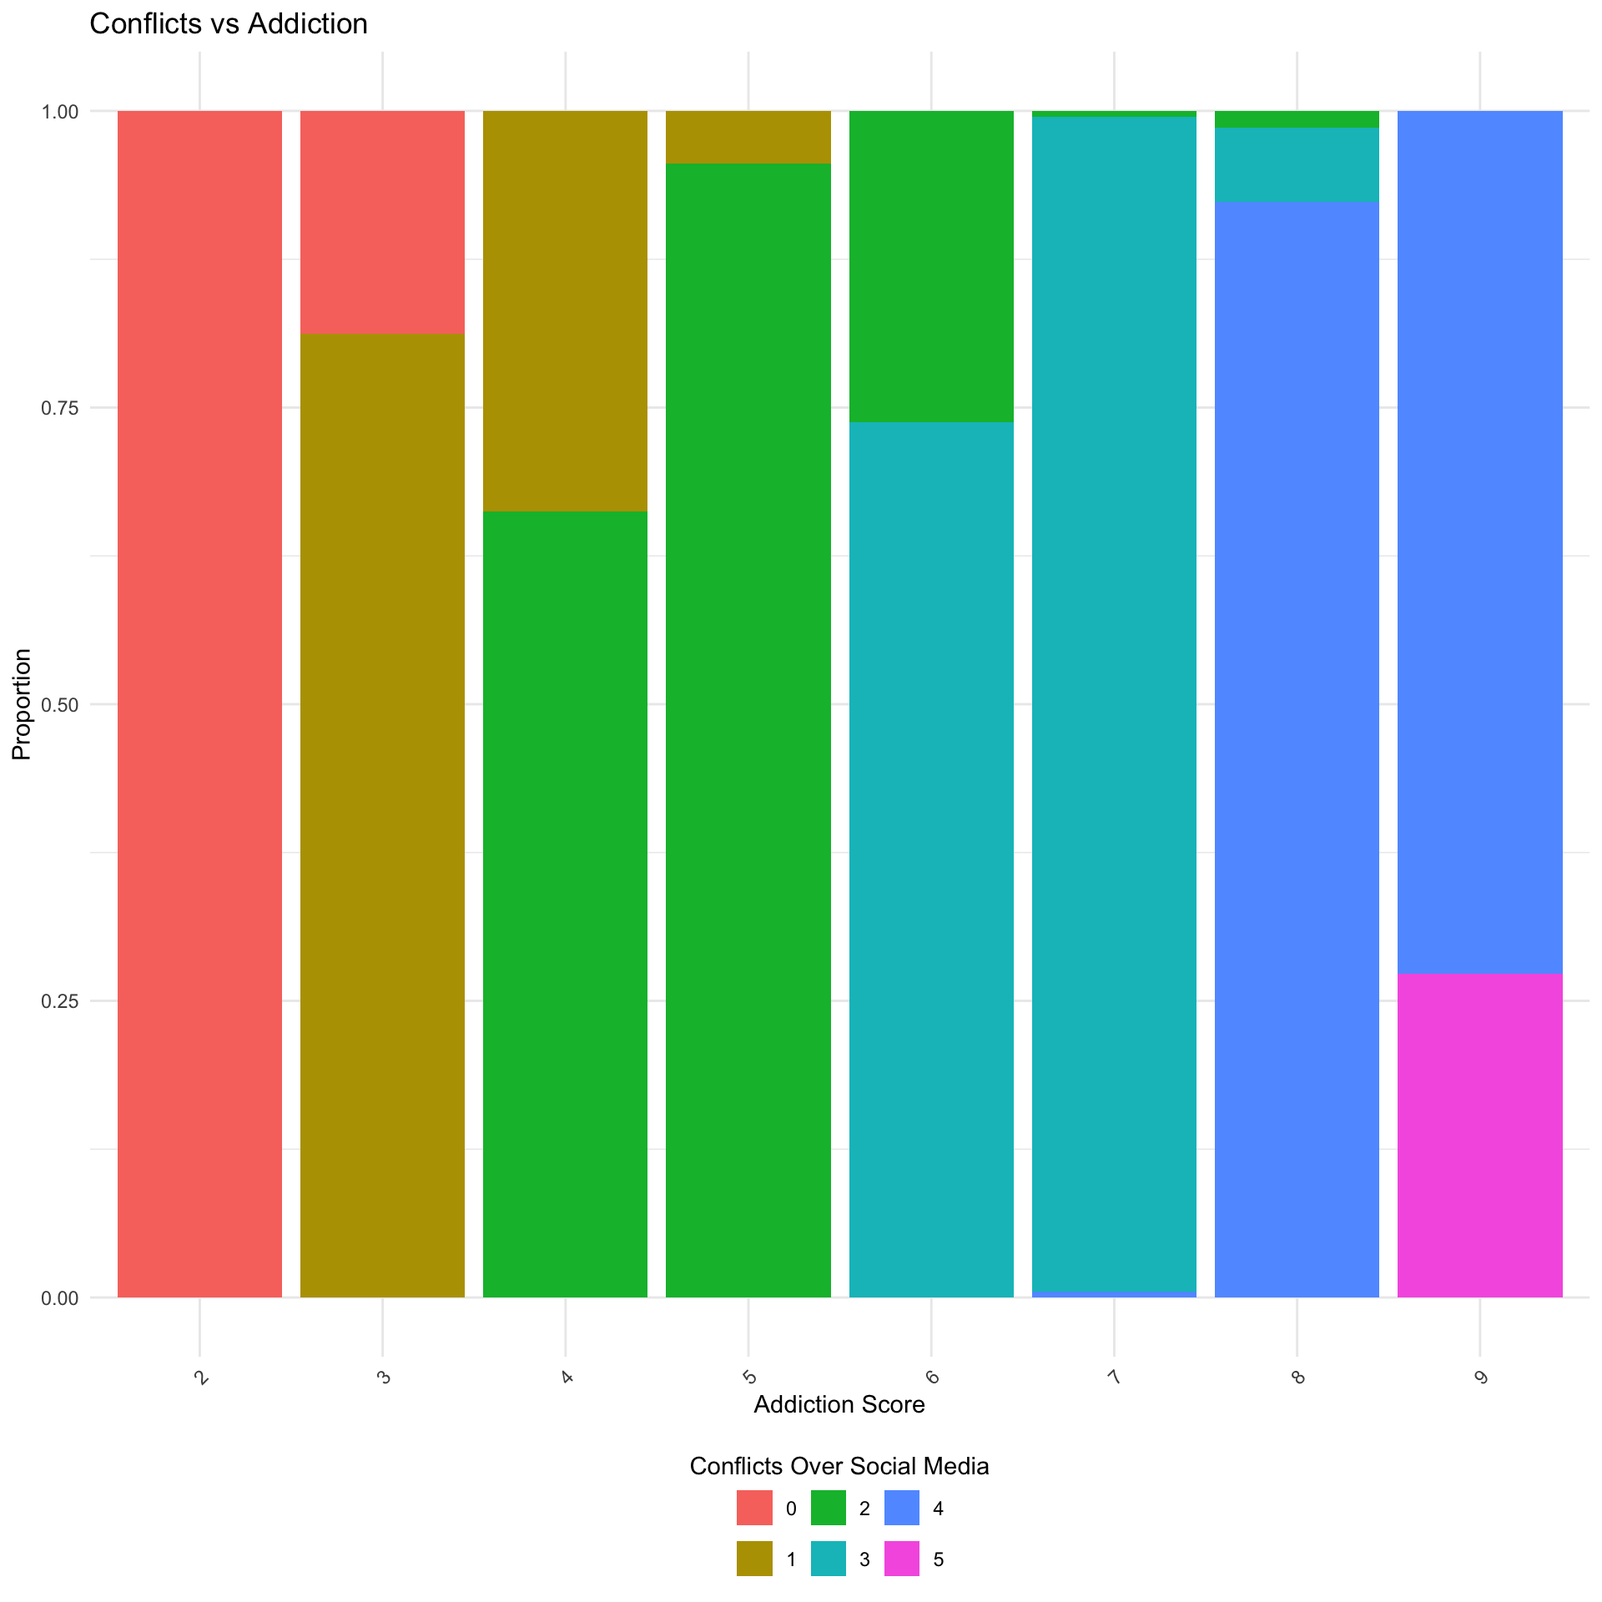
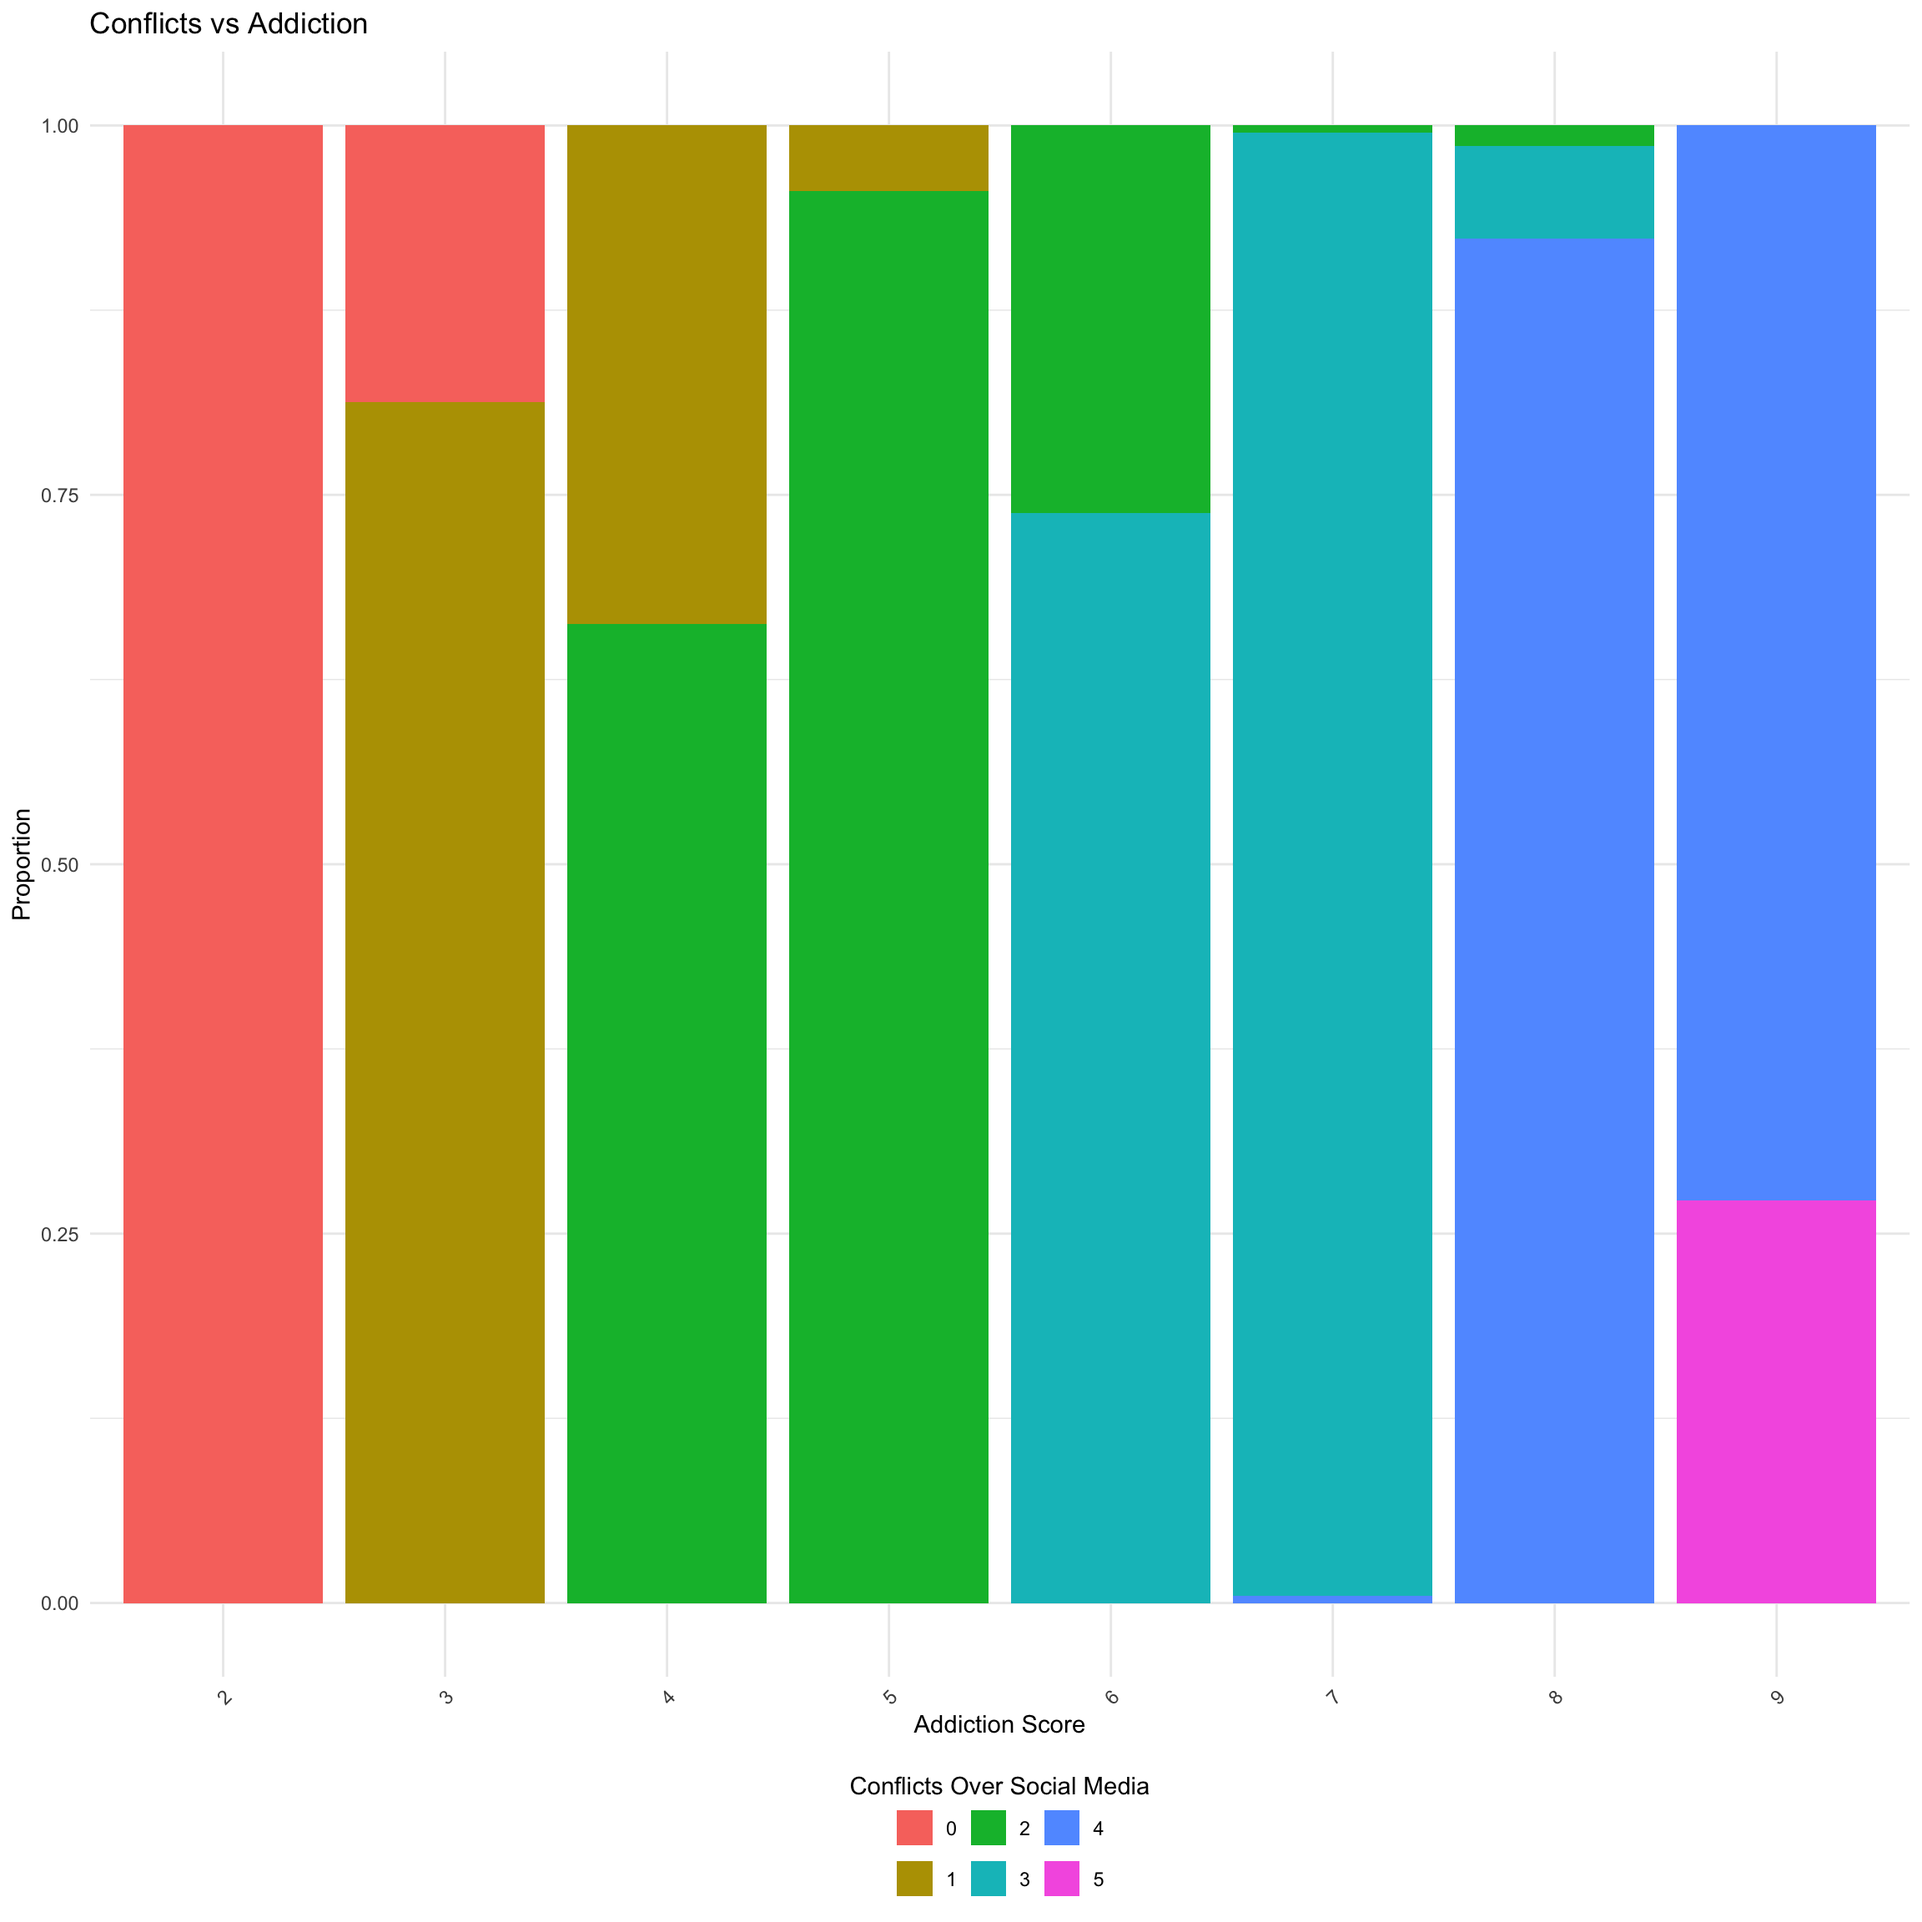
change the size of plot

diff --git a/assignment 3-presentation.html b/assignment 3-presentation.html
@@ -232,25 +232,25 @@ Figure&nbsp;1: Distribution of Addicted Scores
 <h2>Analysis Part</h2>
 <h3 id="how-does-social-media-affect-student">How does social media affect student</h3>
 <div class="columns">
-<div class="column" style="width:33%;">
+<div class="column" style="width:40%;">
 <div class="cell">
 <div class="cell-output-display">
 <div>
 <figure>
-<p><img data-src="assignment-3-presentation_files/figure-revealjs/unnamed-chunk-7-1.png" width="960"></p>
+<p><img data-src="assignment-3-presentation_files/figure-revealjs/unnamed-chunk-5-1.png" width="1152"></p>
 </figure>
 </div>
 </div>
 </div>
-<div class="fragment">
+<div class="fragment" style="font-size: 80%;">
 <p>🧱 More addiction = more conflict High addiction scores strongly associate with interpersonal conflicts.</p>
 </div>
-</div><div class="column" style="width:33%;">
+</div><div class="column" style="width:45%;">
 <div class="cell">
 <div class="cell-output-display">
 <div>
 <figure>
-<p><img data-src="assignment-3-presentation_files/figure-revealjs/unnamed-chunk-8-1.png" width="960"></p>
+<p><img data-src="assignment-3-presentation_files/figure-revealjs/unnamed-chunk-6-1.png" width="960"></p>
 </figure>
 </div>
 </div>
@@ -331,17 +331,17 @@ Figure&nbsp;1: Distribution of Addicted Scores
 <div class="fragment">
 <p>📱 WhatsApp &amp; TikTok = high risk Top platforms show highest usage &amp; addiction.</p>
 </div>
-</div><div class="column" style="width:35%;">
+</div><div class="column" style="width:45%;">
 <div class="cell">
 <div class="cell-output-display">
 <div>
 <figure>
-<p><img data-src="assignment-3-presentation_files/figure-revealjs/unnamed-chunk-10-1.png" width="384"></p>
+<p><img data-src="assignment-3-presentation_files/figure-revealjs/unnamed-chunk-8-1.png" width="768"></p>
 </figure>
 </div>
 </div>
 </div>
-<div class="fragment">
+<div class="fragment" style="font-size: 80%;">
 <p>🎓 Addiction affects grades Across all academic levels, students reporting academic impact have higher addiction.</p>
 </div>
 </div></div>
